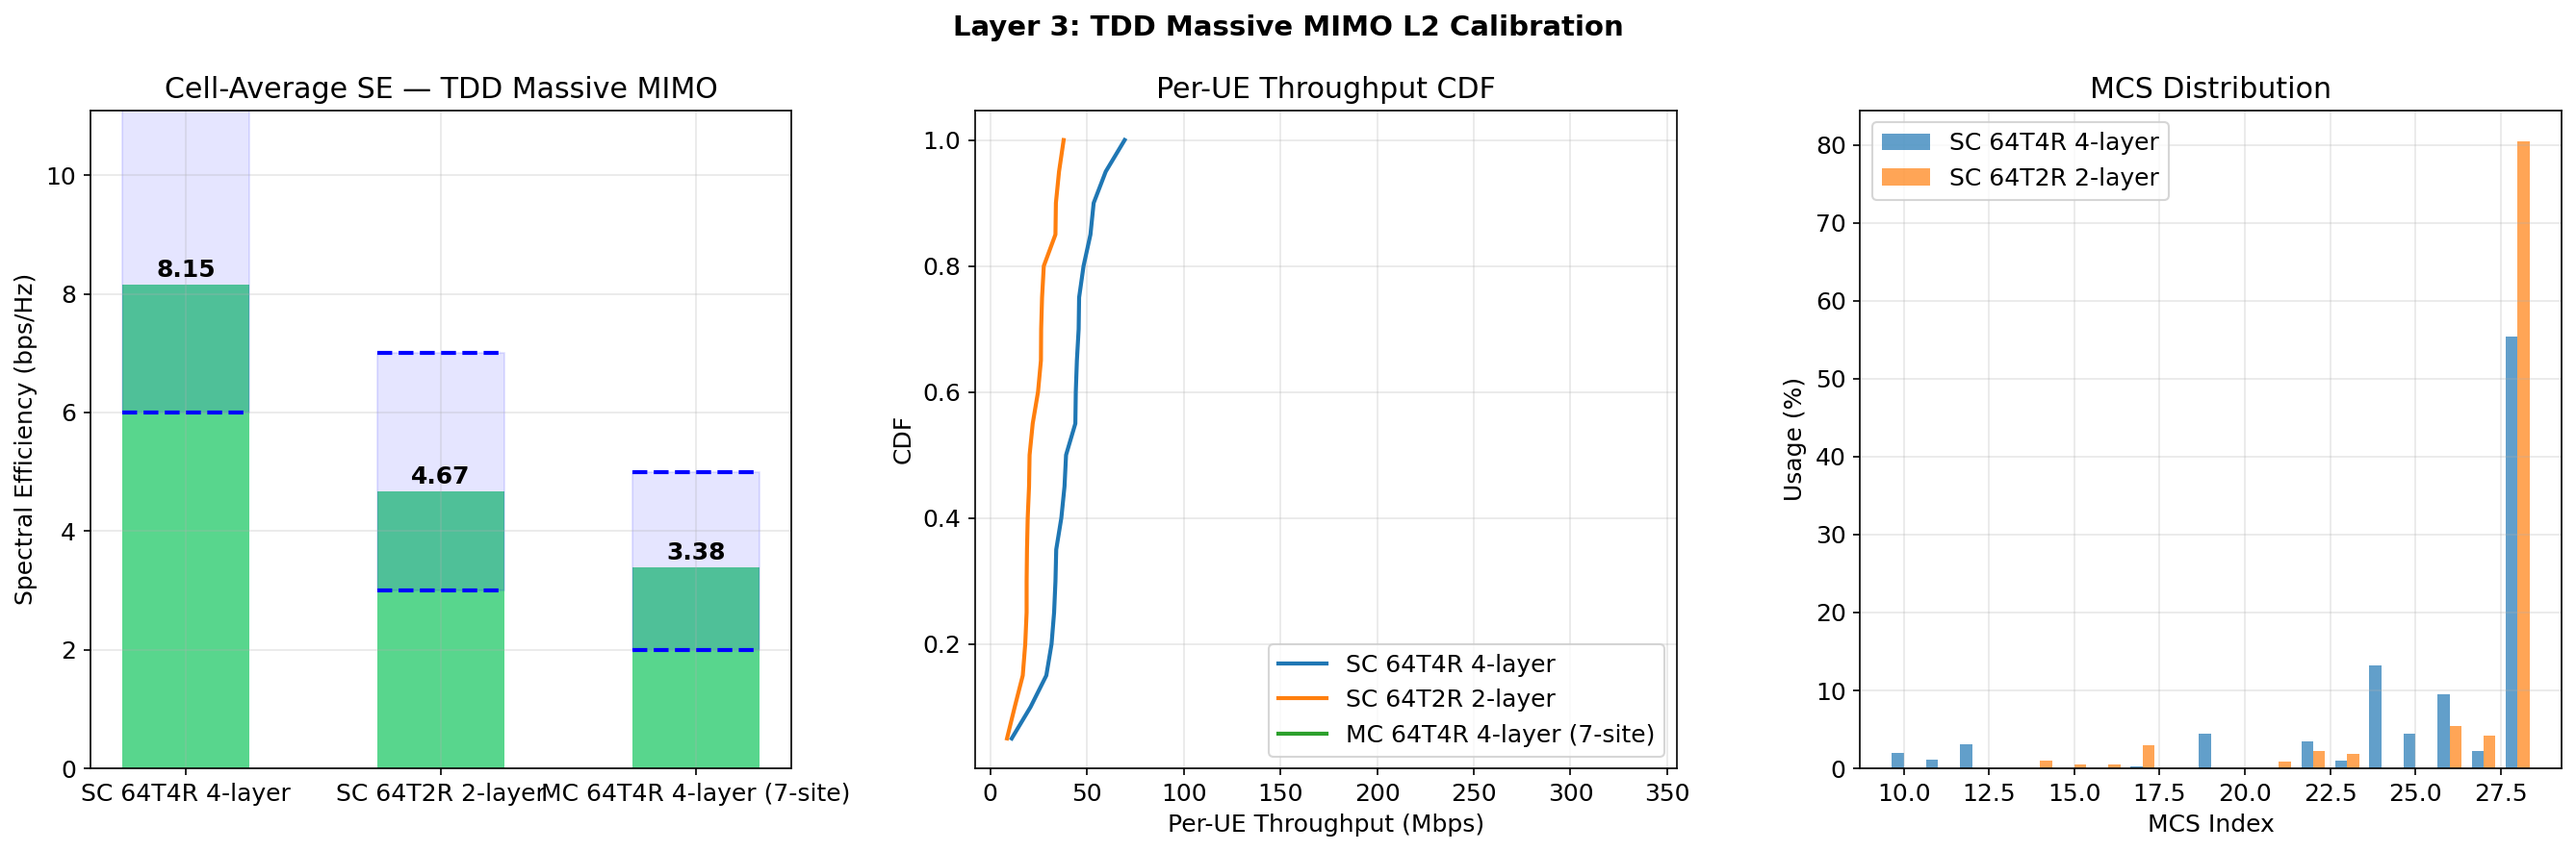
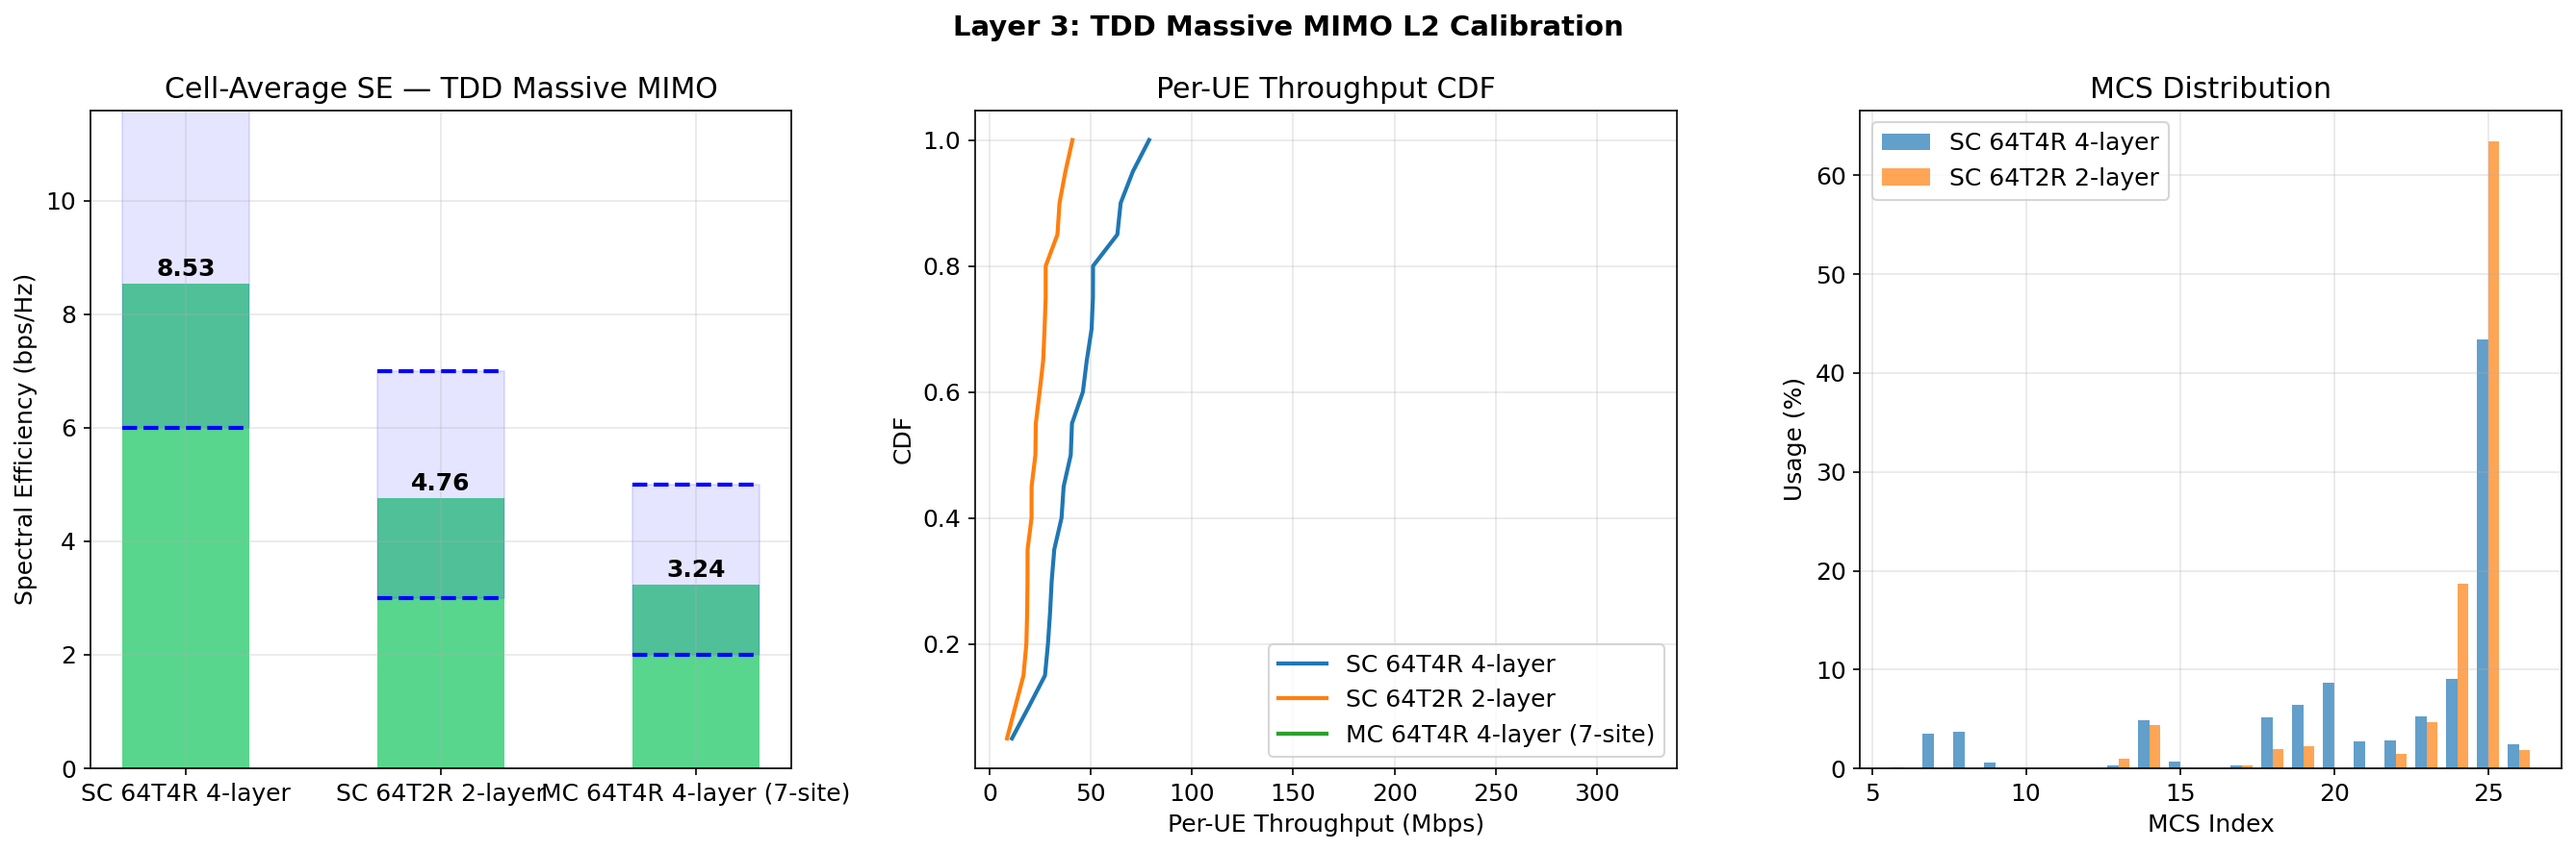
refactor(olla): change OLLA to MCS-domain offset (Huawei-style)
Before: OLLA adjusted SINR (dB domain), ILLA used adjusted SINR to pick MCS.
After: ILLA picks base MCS from raw SINR, OLLA offset (MCS units) is added.

- NACK: offset -= nack_step (default 0.1)
- ACK: offset += ack_step (default 0.01)
- Initial offset: -4.0 (Huawei default)
- No range clipping on offset itself, only on final MCS [0, max_mcs]
- Steady-state BLER: ack_step/(ack_step+nack_step) = 9.1% (target 10%)

Results with TDD 64T4R 4-layer (2000 slots):
- BLER: 16.1% → ~0% (OLLA more conservative, MCS stepped down)
- SE: 8.15 → 8.53 bps/Hz
- MCS: 25.4 → 21.4

diff --git a/l2_rrm_sim/link_adaptation/olla.py b/l2_rrm_sim/link_adaptation/olla.py
@@ -1,62 +1,77 @@
-"""外环链路自适应 (Outer Loop Link Adaptation)
+"""外环链路自适应 (Outer Loop Link Adaptation) — MCS 域实现
 
-根据 HARQ 反馈调整 SINR 偏移量，使实际 BLER 收敛到目标值。
+设计:
+  - ILLA 用原始 SINR 选出初步 MCS (基础 MCS)
+  - OLLA 维护 MCS 域的 offset (浮点)
+  - 最终 MCS = round(illa_mcs + olla_offset), clip 到 [0, max_mcs]
 
-收敛条件 (稳态):
-    P(NACK) × delta_up = P(ACK) × delta_down
-    => delta_down = delta_up × bler_target / (1 - bler_target)
+OLLA offset 更新:
+  - ACK → offset += ack_step (默认 0.01)
+  - NACK → offset -= nack_step (默认 0.1)
+  - 步长比决定 BLER 稳态: P(NACK)/P(ACK) = ack_step/nack_step
+    默认 0.01/0.1 = 0.1 → BLER 稳态 ≈ 9.1% (接近 10% 目标)
 
-对齐 Sionna 实现:
-    ACK → offset -= delta_down (更激进, 尝试更高 MCS)
-    NACK → offset += delta_up (更保守, 降低 MCS)
-    adjusted_sinr = sinr_eff - offset
+初始值 -4 对齐华为默认方案, 快速进入 BLER 收敛域。
+
+参考: 华为商用 BTS 默认 OLLA 方案
 """
 
 import numpy as np
 from .illa import ILLA
+from .mcs_tables import get_max_mcs_index
 
 
 class OLLA:
-    """外环链路自适应
+    """外环链路自适应 (MCS 域)
 
-    维护每 UE 的 SINR 偏移量 (offset_db)。
+    维护每 UE 的 MCS 偏移量 (MCS 索引单位, 浮点)。
     """
 
     def __init__(self, num_ue: int, illa: ILLA,
                  bler_target: float = 0.1,
-                 delta_up: float = 0.5,
-                 offset_min: float = -10.0,
-                 offset_max: float = 10.0):
+                 nack_step: float = 0.1,
+                 ack_step: float = 0.01,
+                 initial_offset: float = -4.0,
+                 mcs_table_index: int = 1,
+                 # --- 以下为兼容旧接口 (SINR dB 域) 的参数, 已弃用 ---
+                 delta_up: float = None,
+                 offset_min: float = None,
+                 offset_max: float = None):
         """
         Args:
-            delta_up: NACK 时偏移增加量 (dB), 较保守的默认值
-            offset_min/max: 偏移范围 (dB), [-10, 10] 更合理
+            num_ue: UE 数量
+            illa: ILLA 实例, 用于预估基础 MCS
+            bler_target: BLER 目标 (仅用于记录, 实际收敛由步长比决定)
+            nack_step: NACK 时 MCS offset 减少量 (默认 0.1)
+            ack_step: ACK 时 MCS offset 增加量 (默认 0.01)
+            initial_offset: MCS offset 初始值 (默认 -4.0, 华为商用默认)
+            mcs_table_index: MCS 表索引 (用于 clip 上界)
+
+        Deprecated (兼容旧调用):
+            delta_up, offset_min, offset_max: 旧 SINR dB 域参数, 不再使用
         """
         self.num_ue = num_ue
         self.illa = illa
         self.bler_target = bler_target
-        self.delta_up = delta_up
-        # 收敛条件: delta_down / delta_up = bler_target / (1 - bler_target)
-        self.delta_down = delta_up * bler_target / (1.0 - bler_target)
-        self.offset_min = offset_min
-        self.offset_max = offset_max
+        self.nack_step = nack_step
+        self.ack_step = ack_step
+        self.mcs_table_index = mcs_table_index
+        self._max_mcs = get_max_mcs_index(mcs_table_index)
 
-        # per-UE 状态
-        self._offset = np.zeros(num_ue, dtype=np.float64)
+        # 每 UE 的 MCS offset (浮点)
+        self._offset = np.full(num_ue, initial_offset, dtype=np.float64)
 
     @property
     def offsets(self) -> np.ndarray:
+        """返回当前 MCS offset (MCS index 单位)"""
         return self._offset.copy()
 
     def update_offset(self, ue_id: int, is_ack: bool):
         """根据 HARQ 反馈更新偏移量"""
         if is_ack:
-            self._offset[ue_id] -= self.delta_down
+            self._offset[ue_id] += self.ack_step
         else:
-            self._offset[ue_id] += self.delta_up
-        self._offset[ue_id] = np.clip(
-            self._offset[ue_id], self.offset_min, self.offset_max
-        )
+            self._offset[ue_id] -= self.nack_step
 
     def update_offsets_batch(self, harq_ack: np.ndarray,
                             scheduled_mask: np.ndarray = None):
@@ -66,30 +81,43 @@ class OLLA:
         scheduled = scheduled_mask.astype(bool)
         ack_mask = harq_ack.astype(bool) & scheduled
         nack_mask = (~harq_ack.astype(bool)) & scheduled
-        self._offset[ack_mask] -= self.delta_down
-        self._offset[nack_mask] += self.delta_up
-        np.clip(self._offset, self.offset_min, self.offset_max, out=self._offset)
+        self._offset[ack_mask] += self.ack_step
+        self._offset[nack_mask] -= self.nack_step
 
     def select_mcs(self, sinr_eff_db: np.ndarray,
                    num_allocated_prbs: np.ndarray = None,
                    num_layers: np.ndarray = None) -> np.ndarray:
-        """使用 OLLA 调整后的 SINR 选择 MCS"""
+        """MCS 选择: ILLA 基础 MCS + OLLA 偏移
+
+        Args:
+            sinr_eff_db: (num_ue,) 有效 SINR (dB)
+            num_allocated_prbs: (num_ue,) 分配 PRB 数 (ILLA 计算 TBLER 用)
+            num_layers: (num_ue,) 传输层数
+
+        Returns:
+            (num_ue,) 最终 MCS 索引 (int32)
+        """
         if num_allocated_prbs is None:
             num_allocated_prbs = np.ones(self.num_ue, dtype=np.int32)
         if num_layers is None:
             num_layers = np.ones(self.num_ue, dtype=np.int32)
 
-        adjusted_sinr = sinr_eff_db - self._offset
-
         mcs_indices = np.zeros(self.num_ue, dtype=np.int32)
         for ue in range(self.num_ue):
-            mcs_indices[ue] = self.illa.select_mcs(
-                float(adjusted_sinr[ue]),
+            # 1. ILLA 用原始 SINR 选基础 MCS
+            illa_mcs = self.illa.select_mcs(
+                float(sinr_eff_db[ue]),
                 int(num_allocated_prbs[ue]),
                 int(num_layers[ue])
             )
+            # 2. 叠加 OLLA offset, 四舍五入, clip 到合法范围
+            final_mcs_float = illa_mcs + self._offset[ue]
+            final_mcs = int(np.round(final_mcs_float))
+            final_mcs = max(0, min(final_mcs, self._max_mcs))
+            mcs_indices[ue] = final_mcs
+
         return mcs_indices
 
-    def reset(self):
+    def reset(self, initial_offset: float = -4.0):
         """重置所有偏移量"""
-        self._offset[:] = 0.0
+        self._offset[:] = initial_offset

diff --git a/l2_rrm_sim/link_adaptation/legacy_phy_adapter.py b/l2_rrm_sim/link_adaptation/legacy_phy_adapter.py
@@ -1,0 +1,149 @@
+"""Legacy PHY 适配器
+
+将自实现的 EESM + ILLA + OLLA + PHYAbstraction 包装为 PHYBase 统一接口，
+使引擎无需区分 Sionna 和 Legacy 两条路径。
+"""
+
+import numpy as np
+from .phy_interface import PHYBase
+from .bler_tables import BLERTableManager
+from .effective_sinr import EESM
+from .illa import ILLA
+from .olla import OLLA
+from .phy_abstraction import PHYAbstraction
+
+
+class LegacyPHYAdapter(PHYBase):
+    """Legacy PHY 适配器 — 实现 PHYBase 统一接口"""
+
+    def __init__(self, num_ue: int,
+                 bler_target: float = 0.1,
+                 delta_up: float = 0.5,
+                 offset_min: float = -10.0,
+                 offset_max: float = 10.0,
+                 mcs_table_index: int = 1,
+                 num_re_per_prb: int = 132,
+                 rng=None):
+        self.num_ue = num_ue
+        self.mcs_table_index = mcs_table_index
+
+        self.bler_table = BLERTableManager()
+        self.eesm = EESM()
+        self.illa = ILLA(self.bler_table, bler_target,
+                         mcs_table_index, num_re_per_prb)
+        self.olla = OLLA(num_ue, self.illa,
+                         bler_target=bler_target,
+                         mcs_table_index=mcs_table_index)
+        self.phy_abs = PHYAbstraction(self.bler_table, self.eesm,
+                                       num_re_per_prb, mcs_table_index,
+                                       rng)
+
+        self._last_sinr_eff = np.ones(num_ue, dtype=np.float32)
+        self._last_scheduled = np.zeros(num_ue, dtype=bool)
+
+    @property
+    def num_re_per_prb(self):
+        return self.illa.num_re_per_prb
+
+    @num_re_per_prb.setter
+    def num_re_per_prb(self, value):
+        self.illa.num_re_per_prb = value
+
+    def select_mcs(self, num_allocated_re: np.ndarray,
+                   harq_feedback: np.ndarray,
+                   sinr_eff: np.ndarray,
+                   scheduled_mask: np.ndarray,
+                   ue_rank: np.ndarray = None,
+                   sinr_eff_db: np.ndarray = None,
+                   **kwargs) -> np.ndarray:
+        """通过 OLLA 选择 MCS (统一接口)
+
+        支持两种输入模式:
+        - sinr_eff (linear): 由外部计算的有效 SINR
+        - sinr_eff_db: 直接传入 dB 值 (Legacy EESM 输出)
+        """
+        is_ack = (harq_feedback == 1)
+        sched_bool = scheduled_mask.astype(bool) if scheduled_mask is not None else np.ones(self.num_ue, dtype=bool)
+        self.olla.update_offsets_batch(is_ack, sched_bool)
+
+        if sinr_eff_db is None:
+            from ..utils.math_utils import linear_to_db
+            sinr_eff_db = np.where(sinr_eff > 0, linear_to_db(sinr_eff), -30.0)
+
+        est_prbs = np.maximum(num_allocated_re // max(self.illa.num_re_per_prb, 1), 1).astype(np.int32)
+        if ue_rank is None:
+            ue_rank = np.ones(self.num_ue, dtype=np.int32)
+        return self.olla.select_mcs(sinr_eff_db, est_prbs, ue_rank)
+
+    def compute_sinr_eff(self, sinr_per_prb: np.ndarray,
+                         mcs_indices: np.ndarray,
+                         prb_assignment: np.ndarray = None) -> np.ndarray:
+        """计算 per-UE 有效 SINR (EESM)"""
+        from ..utils.math_utils import db_to_linear
+        num_ue = self.num_ue
+        sinr_eff_linear = np.zeros(num_ue, dtype=np.float32)
+
+        for ue in range(num_ue):
+            if prb_assignment is not None:
+                ue_prbs = (prb_assignment == ue)
+                if not np.any(ue_prbs):
+                    continue
+                # 使用所有活跃层
+                n_layers = sinr_per_prb.shape[1]
+                sinr_ue = sinr_per_prb[ue, :, :][:, ue_prbs]
+                # 去掉全零层
+                active = np.any(sinr_ue > 0, axis=1)
+                if not np.any(active):
+                    continue
+                sinr_ue = sinr_ue[active, :]
+            else:
+                sinr_ue = sinr_per_prb[ue]
+                active = np.any(sinr_ue > 0, axis=1)
+                if not np.any(active):
+                    continue
+                sinr_ue = sinr_ue[active, :]
+
+            sinr_eff_db = self.eesm.compute(
+                sinr_ue, int(mcs_indices[ue]), self.mcs_table_index
+            )
+            sinr_eff_linear[ue] = db_to_linear(sinr_eff_db)
+
+        return sinr_eff_linear
+
+    def evaluate(self, mcs_indices: np.ndarray,
+                 sinr_per_prb: np.ndarray = None,
+                 num_allocated_re: np.ndarray = None,
+                 prb_assignment: np.ndarray = None,
+                 ue_rank: np.ndarray = None,
+                 re_per_prb: int = None,
+                 sinr_eff_override: np.ndarray = None,
+                 sinr_per_re: np.ndarray = None) -> dict:
+        # 兼容 SionnaPHY 的 sinr_per_re 参数名
+        if sinr_per_prb is None and sinr_per_re is not None:
+            sinr_per_prb = sinr_per_re
+        """评估 PHY 传输结果 (统一接口)"""
+        num_ue = len(mcs_indices)
+        if ue_rank is None:
+            ue_rank = np.ones(num_ue, dtype=np.int32)
+
+        num_prbs = np.zeros(num_ue, dtype=np.int32)
+        if prb_assignment is not None:
+            for ue in range(num_ue):
+                num_prbs[ue] = int(np.sum(prb_assignment == ue))
+
+        results = self.phy_abs.evaluate_batch(
+            sinr_per_prb, mcs_indices, num_prbs, ue_rank,
+            prb_assignment, re_per_prb=re_per_prb,
+            sinr_eff_override_linear=sinr_eff_override,
+        )
+
+        # 转换为统一格式 (与 SionnaPHY 兼容)
+        from ..utils.math_utils import db_to_linear
+        results['sinr_eff'] = db_to_linear(results['sinr_eff_db']).astype(np.float32)
+        results['sinr_eff_raw'] = db_to_linear(results['sinr_eff_db_raw']).astype(np.float32)
+        results['harq_feedback'] = np.where(results['is_success'], 1, 0).astype(np.int32)
+
+        self._last_sinr_eff = results['sinr_eff_raw'].copy()
+        self._last_scheduled = (num_prbs > 0)
+
+        return results

diff --git a/l2_rrm_sim/core/simulation_engine.py b/l2_rrm_sim/core/simulation_engine.py
@@ -472,12 +472,14 @@ class SimulationEngine:
                         olla_offsets = _raw.cpu().numpy().ravel()
                     else:
                         olla_offsets = np.asarray(_raw).ravel()
+            max_mcs = 27 if self.la_config.mcs_table_index == 1 else 27
             for ue in range(num_ue):
                 if csi_reports[ue] is not None and sinr_pred_db[ue] > -29:
-                    # CSI 路径叠加 OLLA offset (dB 域减法 = 线性域除法)
-                    sinr_adjusted = float(sinr_pred_db[ue] - olla_offsets[ue])
-                    cqi = sinr_to_cqi(sinr_adjusted)
-                    mcs_indices[ue] = cqi_to_mcs(cqi)
+                    # CSI 路径: 先用原始 SINR 得到基础 MCS, 再叠加 OLLA offset (MCS 域)
+                    cqi = sinr_to_cqi(float(sinr_pred_db[ue]))
+                    base_mcs = cqi_to_mcs(cqi)
+                    final_mcs = int(round(base_mcs + float(olla_offsets[ue])))
+                    mcs_indices[ue] = max(0, min(final_mcs, max_mcs))
                     sinr_eff_for_olla[ue] = db_to_linear(sinr_pred_db[ue])
 
         # MCS 选择 (统一接口)

diff --git a/l2_rrm_sim/core/multicell_engine.py b/l2_rrm_sim/core/multicell_engine.py
@@ -151,8 +151,9 @@ class MultiCellSimulationEngine:
                             self.la_config.mcs_table_index,
                             self.resource_grid.num_re_per_prb)
                 self.cell_phy[cell_idx] = {
-                    'olla': OLLA(num_ue_per_cell, illa, self.la_config.bler_target,
-                                 self.la_config.olla_delta_up),
+                    'olla': OLLA(num_ue_per_cell, illa,
+                                 bler_target=self.la_config.bler_target,
+                                 mcs_table_index=self.la_config.mcs_table_index),
                     'eesm': eesm,
                 }
 
